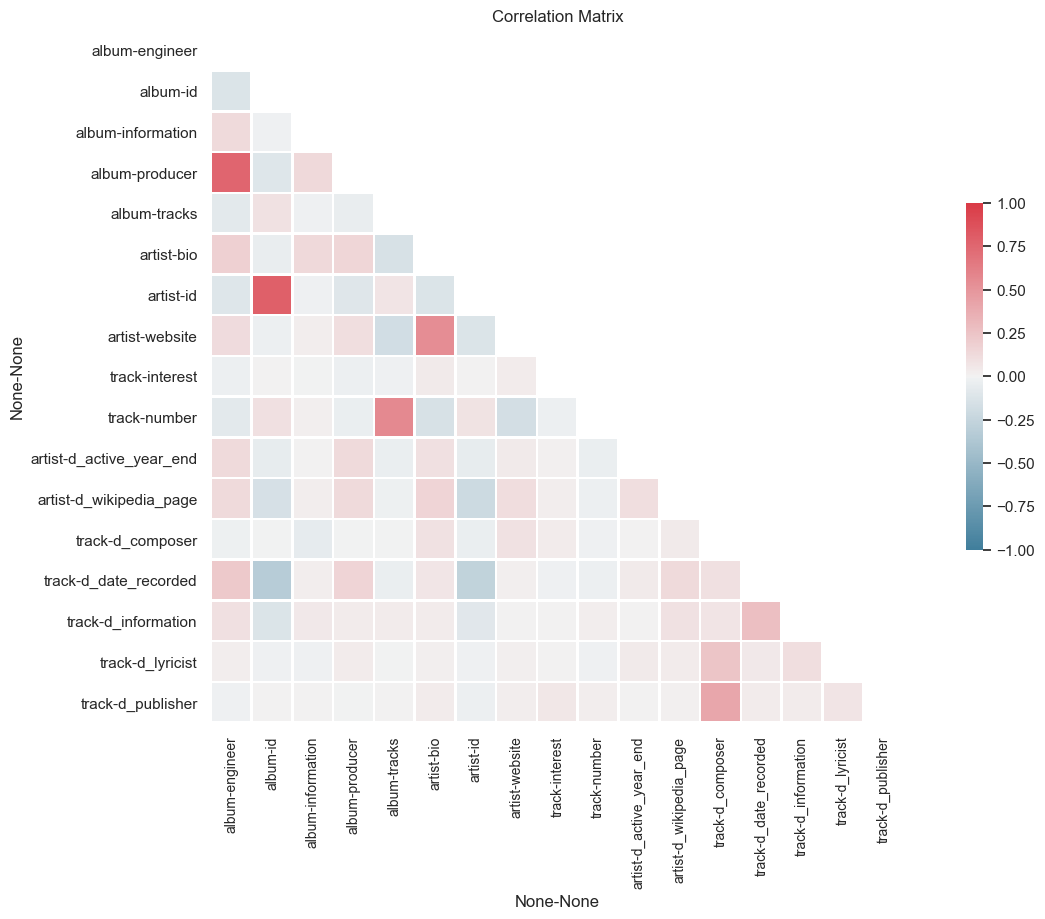
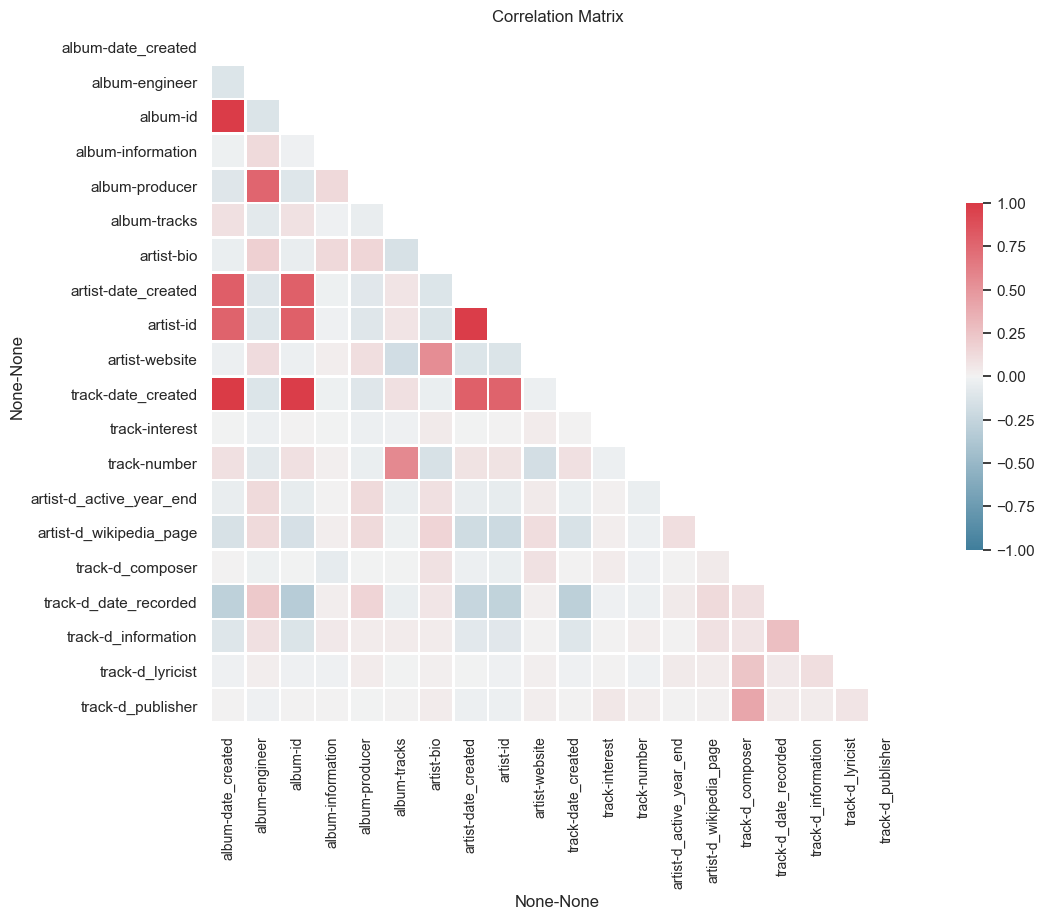
DATAType sistemati con solo ' anno, quindi son di tipo intero

diff --git a/utils.py b/utils.py
@@ -1,4 +1,5 @@
 import ast
+from datetime import datetime
 from pathlib import Path
 
 import numpy as np
@@ -12,7 +13,6 @@ except ModuleNotFoundError:
 
 
 def load(filepath, clean=False, dummies=False, fill=False):
-
     filename = filepath.name
 
     if "features" in filename:
@@ -67,6 +67,16 @@ def load(filepath, clean=False, dummies=False, fill=False):
         df = dummy_maker(df)
     if fill:
         df = fill_missing(df)
+
+    # datetime manipulation
+    df[("album", "date_created")] = pd.to_datetime(df[("album", "date_created")])
+    df[("album", "date_created")] = df[("album", "date_created")].dt.year
+
+    df[("artist", "date_created")] = pd.to_datetime(df[("artist", "date_created")])
+    df[("artist", "date_created")] = df[("artist", "date_created")].dt.year
+
+    df[("track", "date_created")] = pd.to_datetime(df[("track", "date_created")])
+    df[("track", "date_created")] = df[("track", "date_created")].dt.year
 
     return df
 

diff --git a/KNN-marr.py b/KNN-marr.py
@@ -203,20 +203,11 @@ print()
 
 print("Accuracy %s" % accuracy_score(y_test, y_pred))
 
-print(
-    "F1-score %s"
-    % f1_score(y_test, y_pred, labels=[0, 1], average=None, zero_division=1)
-)
+print("F1-score %s" % f1_score(y_test, y_pred, labels=[0, 1], average=None))
 
-print(
-    "Precision %s"
-    % precision_score(y_test, y_pred, labels=[0, 1], average=None, zero_division=1)
-)
+print("Precision %s" % precision_score(y_test, y_pred, labels=[0, 1], average=None))
 
-print(
-    "Recall %s"
-    % recall_score(y_test, y_pred, labels=[0, 1], average=None, zero_division=1)
-)
+print("Recall %s" % recall_score(y_test, y_pred, labels=[0, 1], average=None))
 
 # plot the Roc Curve of the model
 lb = LabelBinarizer()

diff --git a/usage.py b/usage.py
@@ -14,7 +14,7 @@ tracks = utils.load(Path("data/tracks.csv"), clean=True, dummies=True)
 
 print("Here are informations on tracks")
 print(tracks.info())
-print("ciao")
+
 
 # my_df = tracks.query(f"not ('album', 'listens') < 0")
 # print(my_df)
